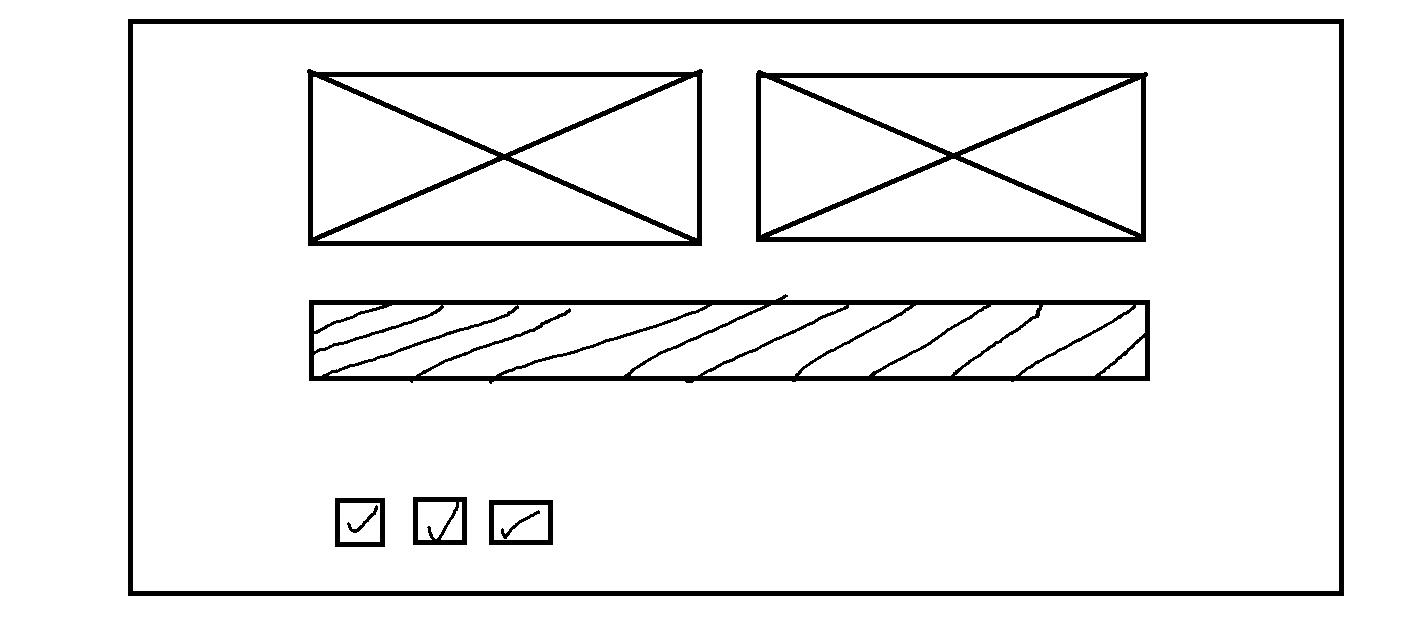
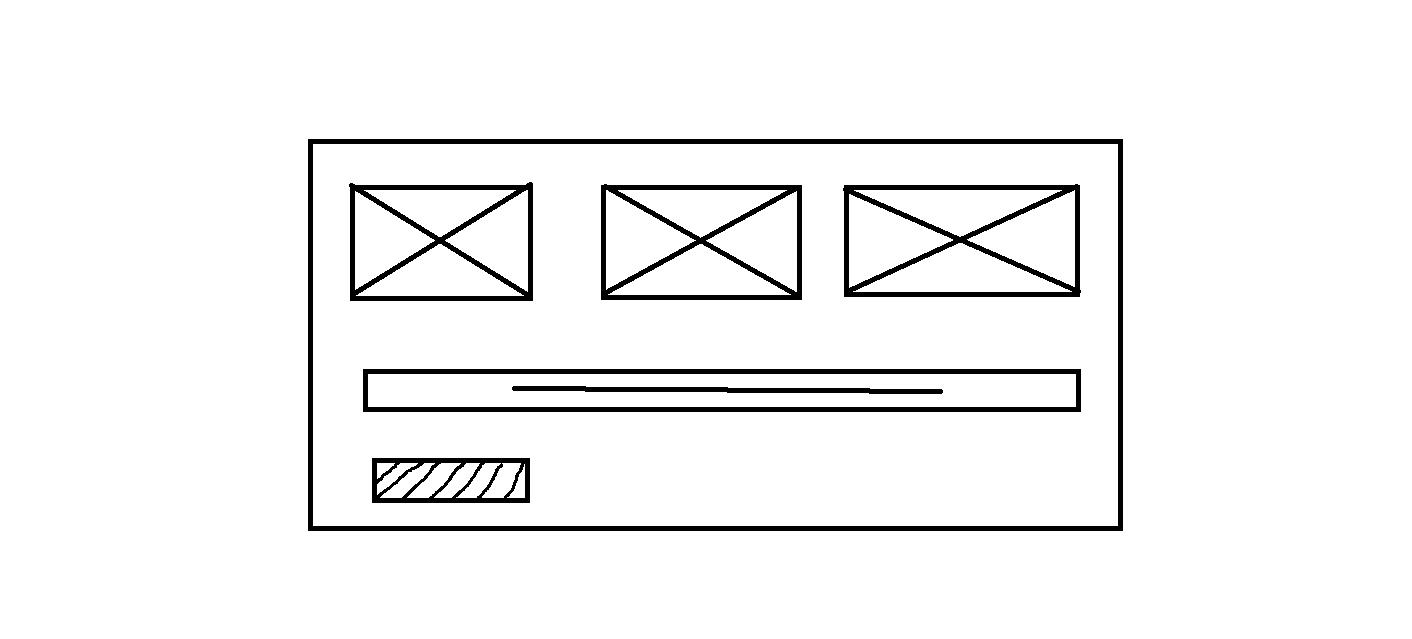
Added modifications

diff --git a/8thSemProject/templates/index.html b/8thSemProject/templates/index.html
@@ -12,13 +12,12 @@
 		integrity="sha384-715VMUUaOfZR3/rWXZJ9agJ/udwSXGEigabzUbJm2NR4/v5wpDy8c14yedZN6NL7" crossorigin="anonymous"> -->
 	<link href="https://fonts.googleapis.com/css?family=Oswald&display=swap" rel="stylesheet">
 	<meta http-Equiv="Cache-Control" Content="no-cache" />
-    <meta http-Equiv="Pragma" Content="no-cache" />
-    <meta http-Equiv="Expires" Content="0" />
+	<meta http-Equiv="Pragma" Content="no-cache" />
+	<meta http-Equiv="Expires" Content="0" />
+	<meta name="viewport" content="width=device-width, initial-scale=1.0">
 
 	<!-- <link rel="stylesheet" href="{{ url_for('static', filename = 'styles/index.css') }}"> -->
 	<style>
-
-
 		#left-navbar {
 			height: 100%;
 			box-shadow: 6px 3px 5px 0px rgba(0, 0, 0, 0.35);
@@ -27,31 +26,30 @@
 		#right-navbar {
 			display: flex;
 			align-items: center;
-			height:100%;
+			height: 100%;
 			box-shadow: -6px 3px 5px 0px rgba(0, 0, 0, 0.35);
 		}
 
-		#right-navbar input{
-			margin-bottom:20px;
+		#right-navbar input,
+		#right-navbar p {
+			margin-bottom: 20px;
 		}
 
-		#right-navbar:first-child{
-			
-		}
+		#right-navbar:first-child {}
 
 		#file-overlay {
 			position: relative;
 			height: 34px;
-			
+
 		}
 
-		#cf{
+		#cf {
 			position: absolute;
-			left:35px;
-			right:0px;
-			height:34px;
-			width:170px;
-			font-size:12px;
+			left: 35px;
+			right: 0px;
+			height: 34px;
+			width: 179px;
+			font-size: 12px;
 			pointer-events: none;
 		}
 
@@ -73,24 +71,45 @@
 		#button-tray input {
 			margin-top: 20px;
 			height: 34px;
-			font-size:12px;
+			font-size: 12px;
 		}
 
-
-		#main-row{
-			height:100%;
+		#flex-container {
+			display: flex;
+			flex-direction: column;
 		}
 
-		#rendered-page{
-			width:100%;
-			height:100%;
-			border:none;
+		#main-row {
+			height: 100%;
 		}
 
-		#file-btn{
+		#rendered-page {
+			width: 100%;
+			height: 100%;
+			border: none;
+		}
+
+		#file-btn {
 			outline: 0;
 		}
 
+		.flex-row {
+			display: flex;
+			justify-content: center;
+			align-items: center;
+		}
+
+		.flex-row * {
+			flex: 0.5;
+		}
+
+		#mod-btn {
+			width: 100%;
+		}
+
+		#btn-box {
+			margin-top: 30px;
+		}
 	</style>
 </head>
 
@@ -106,14 +125,15 @@
 					<form action="/sendfile" method="post" enctype="multipart/form-data">
 						<div id="button-tray">
 							<div class="file-overlay">
-								<button class="btn btn-primary" id="cf">Choose File</button>			
+								<button class="btn btn-primary" id="cf">Choose File</button>
 								<input type="file" name="uploaded-file" id="file-btn">
 							</div>
 							<input class="btn btn-primary" id="previewframe" value="Preview">
-							<input id="sbt" class="btn btn-primary"  value="Convert">
-							<input id="down-btn" class="btn btn-primary"  value="Download">
+							<input id="sbt" class="btn btn-primary" value="Convert">
+							<input id="down-btn" class="btn btn-primary" value="Download">
+							<input id="del-btn" class="btn btn-primary" value="Delete" onclick="deletePage()">
 						</div>
-						
+
 					</form>
 				</div>
 			</div>
@@ -123,38 +143,60 @@
 				</iframe>
 			</div>
 			<div class="col-md-2" id="right-navbar">
-				<div class="row">
-					<div class="col-md-12">
-						<div class="row">
-							<div class="col-md-6">
-								<p>Position</p>
-								<p>Left</p>
-								<p>Right</p>
-								<p>Top</p>
-								<p>Bottom</p>
-								<p>Width</p>
-								<p>Height</p>
-								<p>BackgroundColor</p>
-								<p>Color</p>
-							</div>
-							<div class="col-md-6">
-								<input id="position" class="form-control" placeholder="New Position">
-								<input id="left" class="form-control" placeholder="New Left">
-								<input id="right" class="form-control" placeholder="New Right">
-								<input id="top"  class="form-control" placeholder="New Top">
-								<input id="bottom"  class="form-control" placeholder="New Bottom">
-								<input id="width"  class="form-control" placeholder="New Width">
-								<input id="height"  class="form-control" placeholder="New Height">
-								<input id="backgroundColor"  class="form-control" placeholder="New BackgroundColor">
-								<input id="color"  class="form-control" placeholder="New Color">
-							</div>
-							<button class="btn btn-primary" onclick="modifyValues()">Modify</button>
-						</div>
-						
+
+				<div id="flex-container">
+					<div class="flex-row">
+						<p>Position</p>
+						<input id="position" class="form-control" placeholder="New Position">
+					</div>
+					<div class="flex-row">
+						<p>Left</p>
+						<input id="left" class="form-control" placeholder="New Left">
+					</div>
+
+					<div class="flex-row">
+						<p>Right</p>
+						<input id="right" class="form-control" placeholder="New Right">
+					</div>
+
+					<div class="flex-row">
+						<p>Top</p>
+						<input id="top" class="form-control" placeholder="New Top">
+					</div>
+
+					<div class="flex-row">
+						<p>Bottom</p>
+						<input id="bottom" class="form-control" placeholder="New Bottom">
+					</div>
+
+					<div class="flex-row">
+						<p>Width</p>
+						<input id="width" class="form-control" placeholder="New Width">
+					</div>
+
+					<div class="flex-row">
+						<p>Height</p>
+						<input id="height" class="form-control" placeholder="New Height">
+					</div>
+
+
+					<div class="flex-row">
+						<p>BackgroundColor</p>
+						<input id="backgroundColor" class="form-control" placeholder="New BackgroundColor">
+					</div>
+
+
+					<div class="flex-row">
+						<p>Color</p>
+						<input id="color" class="form-control" placeholder="New Color">
+					</div>
+					<div id="btn-box">
+						<button id="mod-btn" class="btn btn-primary" onclick="modifyValues()">Modify</button>
 					</div>
 				</div>
 			</div>
 		</div>
+	</div>
 	</div>
 
 

diff --git a/8thSemProject/static/scripts/index.js b/8thSemProject/static/scripts/index.js
@@ -41,13 +41,11 @@ document.getElementById("sbt").addEventListener("click", (e) => {
 
 function getCSSFromServer(){
 
-    console.log("Fetching CSS")
     $.ajax({
         url:"http://localhost:5000/getcss",
         async : true,
         success:function(data){
             serverData = data
-            console.log("Server data",serverData)
         },
         error:function(){
             alert("Error occured")
@@ -93,7 +91,6 @@ function modifyValues() {
         "backgroundColor" : document.getElementById("backgroundColor").value,
         "color" : document.getElementById("color").value,
     }
-    console.log(selectedElement)
     document.getElementById("rendered-page").contentWindow.document.getElementById(selectedElement).style.position = document.getElementById("position").value,
     document.getElementById("rendered-page").contentWindow.document.getElementById(selectedElement).style.left = document.getElementById("left").value,
     document.getElementById("rendered-page").contentWindow.document.getElementById(selectedElement).style.right = document.getElementById("right").value,
@@ -110,11 +107,23 @@ function modifyValues() {
         async : true,
         method:"POST",
         success:function(data){
-            console.log("Modified")
             document.getElementById("rendered-page").contentWindow.reload(true)
         },
         error:function(){
             alert("Error occured")
+        }
+    })
+    let ele = data["ele"]
+    delete data["ele"]
+    serverData[ele] = data
+}
+
+function deletePage(){
+    $.ajax({
+        url:"http://localhost:5000/delete",
+        success:function(data){
+            alert(data)
+            document.getElementById("rendered-page").src = "http://localhost:5000/generatedpage"
         }
     })
 }

diff --git a/8thSemProject/templates/content.html b/8thSemProject/templates/content.html
@@ -1,25 +1,21 @@
 
                 <div class="" >
-                    <input type="checkbox"   id="checkbox1" placeholder="Default input">
+                    <input type="button"   id="button1"  class="btn btn-primary" value="Button">
                 </div>
                 
-                <div class="" >
-                    <input type="checkbox"   id="checkbox2" placeholder="Default input">
+                <div class="form-group" >
+                    <input type="text"   id="input2"  class="form-control" placeholder="Default input">
                 </div>
                 
-                <div class="" >
-                    <input type="checkbox"   id="checkbox3" placeholder="Default input">
+                <div class="container">
+                    <img class="" src={{ url_for('static', filename = 'images/placeholder.png') }} id="image3" >
                 </div>
                 
-                <div class="" >
-                    <input type="button"   id="button4"  class="btn btn-primary" value="Button">
+                <div class="container">
+                    <img class="" src={{ url_for('static', filename = 'images/placeholder.png') }} id="image4" >
                 </div>
                 
                 <div class="container">
                     <img class="" src={{ url_for('static', filename = 'images/placeholder.png') }} id="image5" >
-                </div>
-                
-                <div class="container">
-                    <img class="" src={{ url_for('static', filename = 'images/placeholder.png') }} id="image6" >
                 </div>
                 

diff --git a/8thSemProject/static/styles/index.css b/8thSemProject/static/styles/index.css
@@ -1,1 +1,1 @@
-#checkbox1{position:absolute;left:35%;right:auto;top:89%;bottom:auto;width:5%;height:6%;background-color:red;color:black}#checkbox2{position:absolute;left:21%;right:auto;top:84%;bottom:auto;width:1%;height:6%;background-color:transparent;color:black;}#checkbox3{position:absolute;left:29%;right:auto;top:84%;bottom:auto;width:1%;height:6%;background-color:transparent;color:black;}#button4{position:absolute;left:21%;right:auto;top:51%;bottom:auto;width:59%;height:11%;background-color:green;color:black}#image5{position:absolute;left:55%;right:auto;top:13%;bottom:auto;width:26%;height:26%;background-color:transparent;color:black;}#image6{position:absolute;left:21%;right:auto;top:13%;bottom:auto;width:26%;height:26%;background-color:transparent;color:black}
+#button1{position:absolute;left:13%;right:auto;top:64%;bottom:auto;width:13%;height:6%;background-color:transparent;color:black;}#input2{position:absolute;left:13%;right:auto;top:47%;bottom:auto;width:60%;height:6%;background-color:red;color:black}#image3{position:absolute;left:55%;right:auto;top:12%;bottom:auto;width:13%;height:19%;background-color:transparent;color:black;}#image4{position:absolute;left:34%;right:auto;top:12%;bottom:auto;width:13%;height:19%;background-color:transparent;color:black;}#image5{position:absolute;left:13%;right:auto;top:12%;bottom:auto;width:13%;height:19%;background-color:transparent;color:black;}

diff --git a/8thSemProject/server.py b/8thSemProject/server.py
@@ -30,8 +30,13 @@ def rewrite_css(data):
             reppos = i[0]
     ele = data["ele"]
     del data["ele"]
-    print(reppos)
     fp_content[reppos] = ele+json.dumps(data).replace(",",";").replace(" ","").replace('"','').replace("backgroundColor","background-color")
+    with open(os.path.join("metadata","element_structure.json"), 'r') as f:
+        json_css = json.load(f)
+        for i in data:
+            json_css[ele][i] = data[i]
+    with open(os.path.join("metadata","element_structure.json"), 'w') as f:
+        json.dump(json_css, f)
     fp = open(os.path.join("static","styles","index.css"),"w")
     fp.write("".join(fp_content))
     fp.close()
@@ -44,7 +49,6 @@ def root():
 @app.route('/getcss', methods=['GET'])
 def get_css():
     with open(os.path.join("metadata","element_structure.json"), 'r') as f:
-        print(type(f))
         return json.load(f)
             
 @app.route('/modify', methods=['POST'])
@@ -52,6 +56,11 @@ def modify_css():
     json_str = request.get_json()
     rewrite_css(json_str)
     return render_template("generatedpage.html")
+
+@app.route('/delete', methods=['GET'])
+def delete_page():
+    server_reset()
+    return "Page was cleared"
 
 @app.route('/sendfile', methods=['POST'])
 def get_file():
